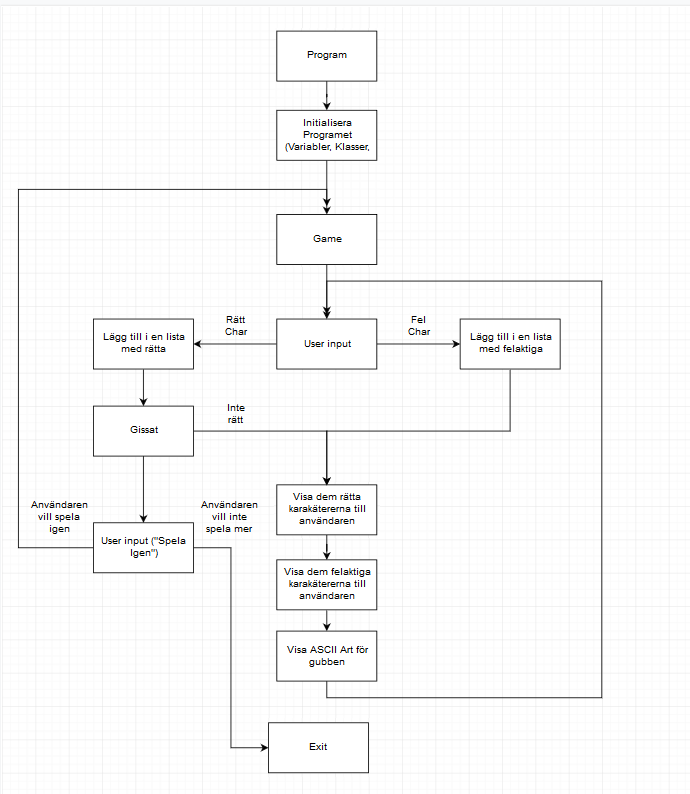
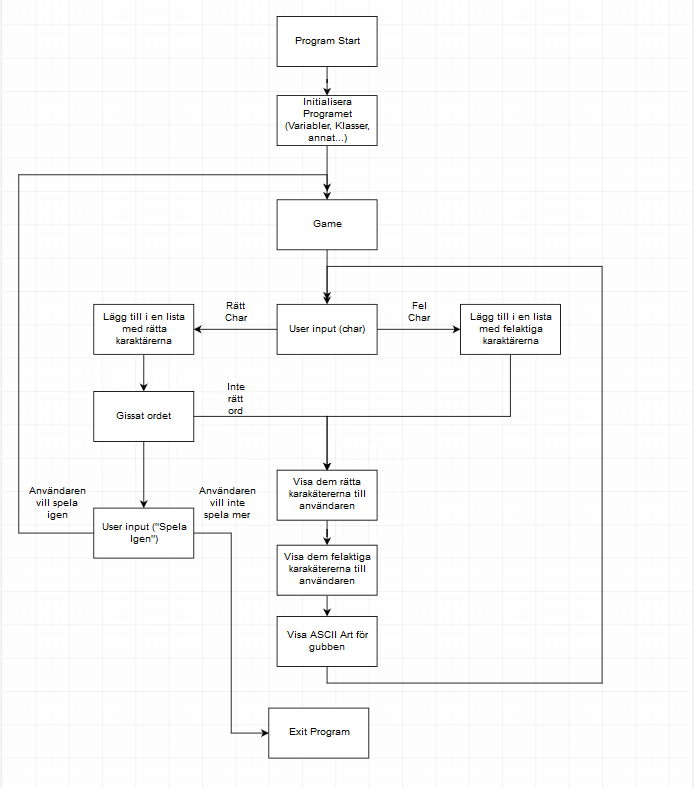
Skrivit på planneringen

Changed region(s): [[0.0304, 0.0305, 0.8826, 0.9746], [0.0304, 0.6091, 0.3652, 0.731]]

diff --git a/C#/Hängagubbe/README.md b/C#/Hängagubbe/README.md
@@ -4,19 +4,29 @@ C# for life
 
 ## Program Beskrivning
 
+- Hängagubbe vanliga regler
+- Användaren ska kunna lägga till egna ord
+- Ladda ord från en fil JSON (Json.NET C# Library for life) 
+
 ## Program Flow
 
 ![Program Flow Diagram](Diagram.png) 
 
-
-- Program Start
-    - Ta in user input
-    - 
+Variabler
+  - Rätt gissade ord (List string) (Game Class)
+  - Fel gissade ord (List string) (Game Class)
+  - Random Object för random nummer (Random) (Game Class)
 
 ## Klasser
 
-- Hangman
+- Program (Main) Ge användaren val om att lägga till ord om dem vill eller starta ett nytt spel varje gång
+- Game (Spelets start, all logik här) Spelets logik ska finns i denna klassen man ska kunna skapa en ny Game Object för att starta ett nytt spel
 
 
-Program
- - Main Method
+Program:
+ - Main Method (Public)
+ - DrawMenu Method (Private, Ritar upp menyn som användaren får före ett nytt spel) (New Game, Add word, Exit Game) 
+
+Game: 
+ - Run Method (Public, Startar spelet)
+ - Draw Method (Private, Ritar upp gubben, ordet och hur många rätt och fel)
